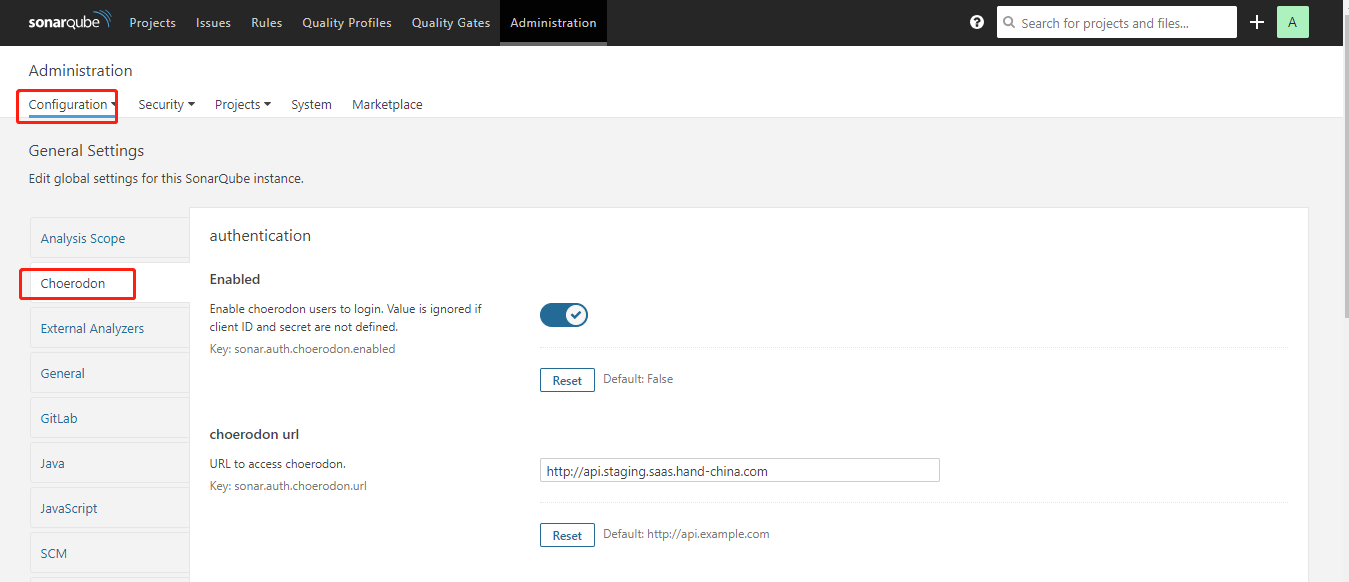
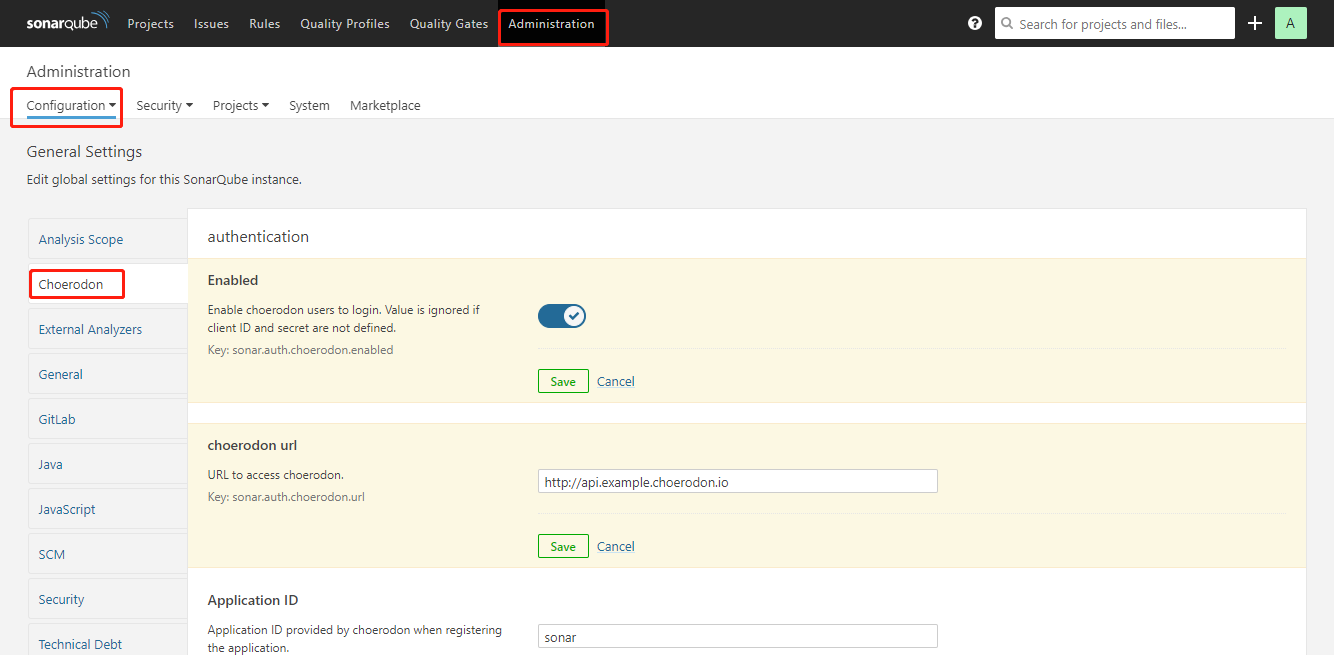
[IMP] 修改sonarqube插件配置图片

diff --git a/content/docs/installation-configuration/steps/install/parts/base/sonarqube.md b/content/docs/installation-configuration/steps/install/parts/base/sonarqube.md
@@ -89,7 +89,8 @@ helm install c7n/sonarqube \
 
 ### 配置认证插件
 - 使用 admin 用户登录 SoanrQube
-- 进入 `Administration` -> `choerodon`
+- 进入 `Administration` -> `Configuration` ->`choerodon`
+- 更改 `Enabled` 为启用
 - 更改 `Choerodon url` 为当前使用的 `choerodon api getaway` 地址；默认地址为：`http://api.example.choerodon.io`
     ![](/docs/installation-configuration/image/sonarqube_4.png)
 - 退出登录，测试使用choerodon登录,出现如下界面
